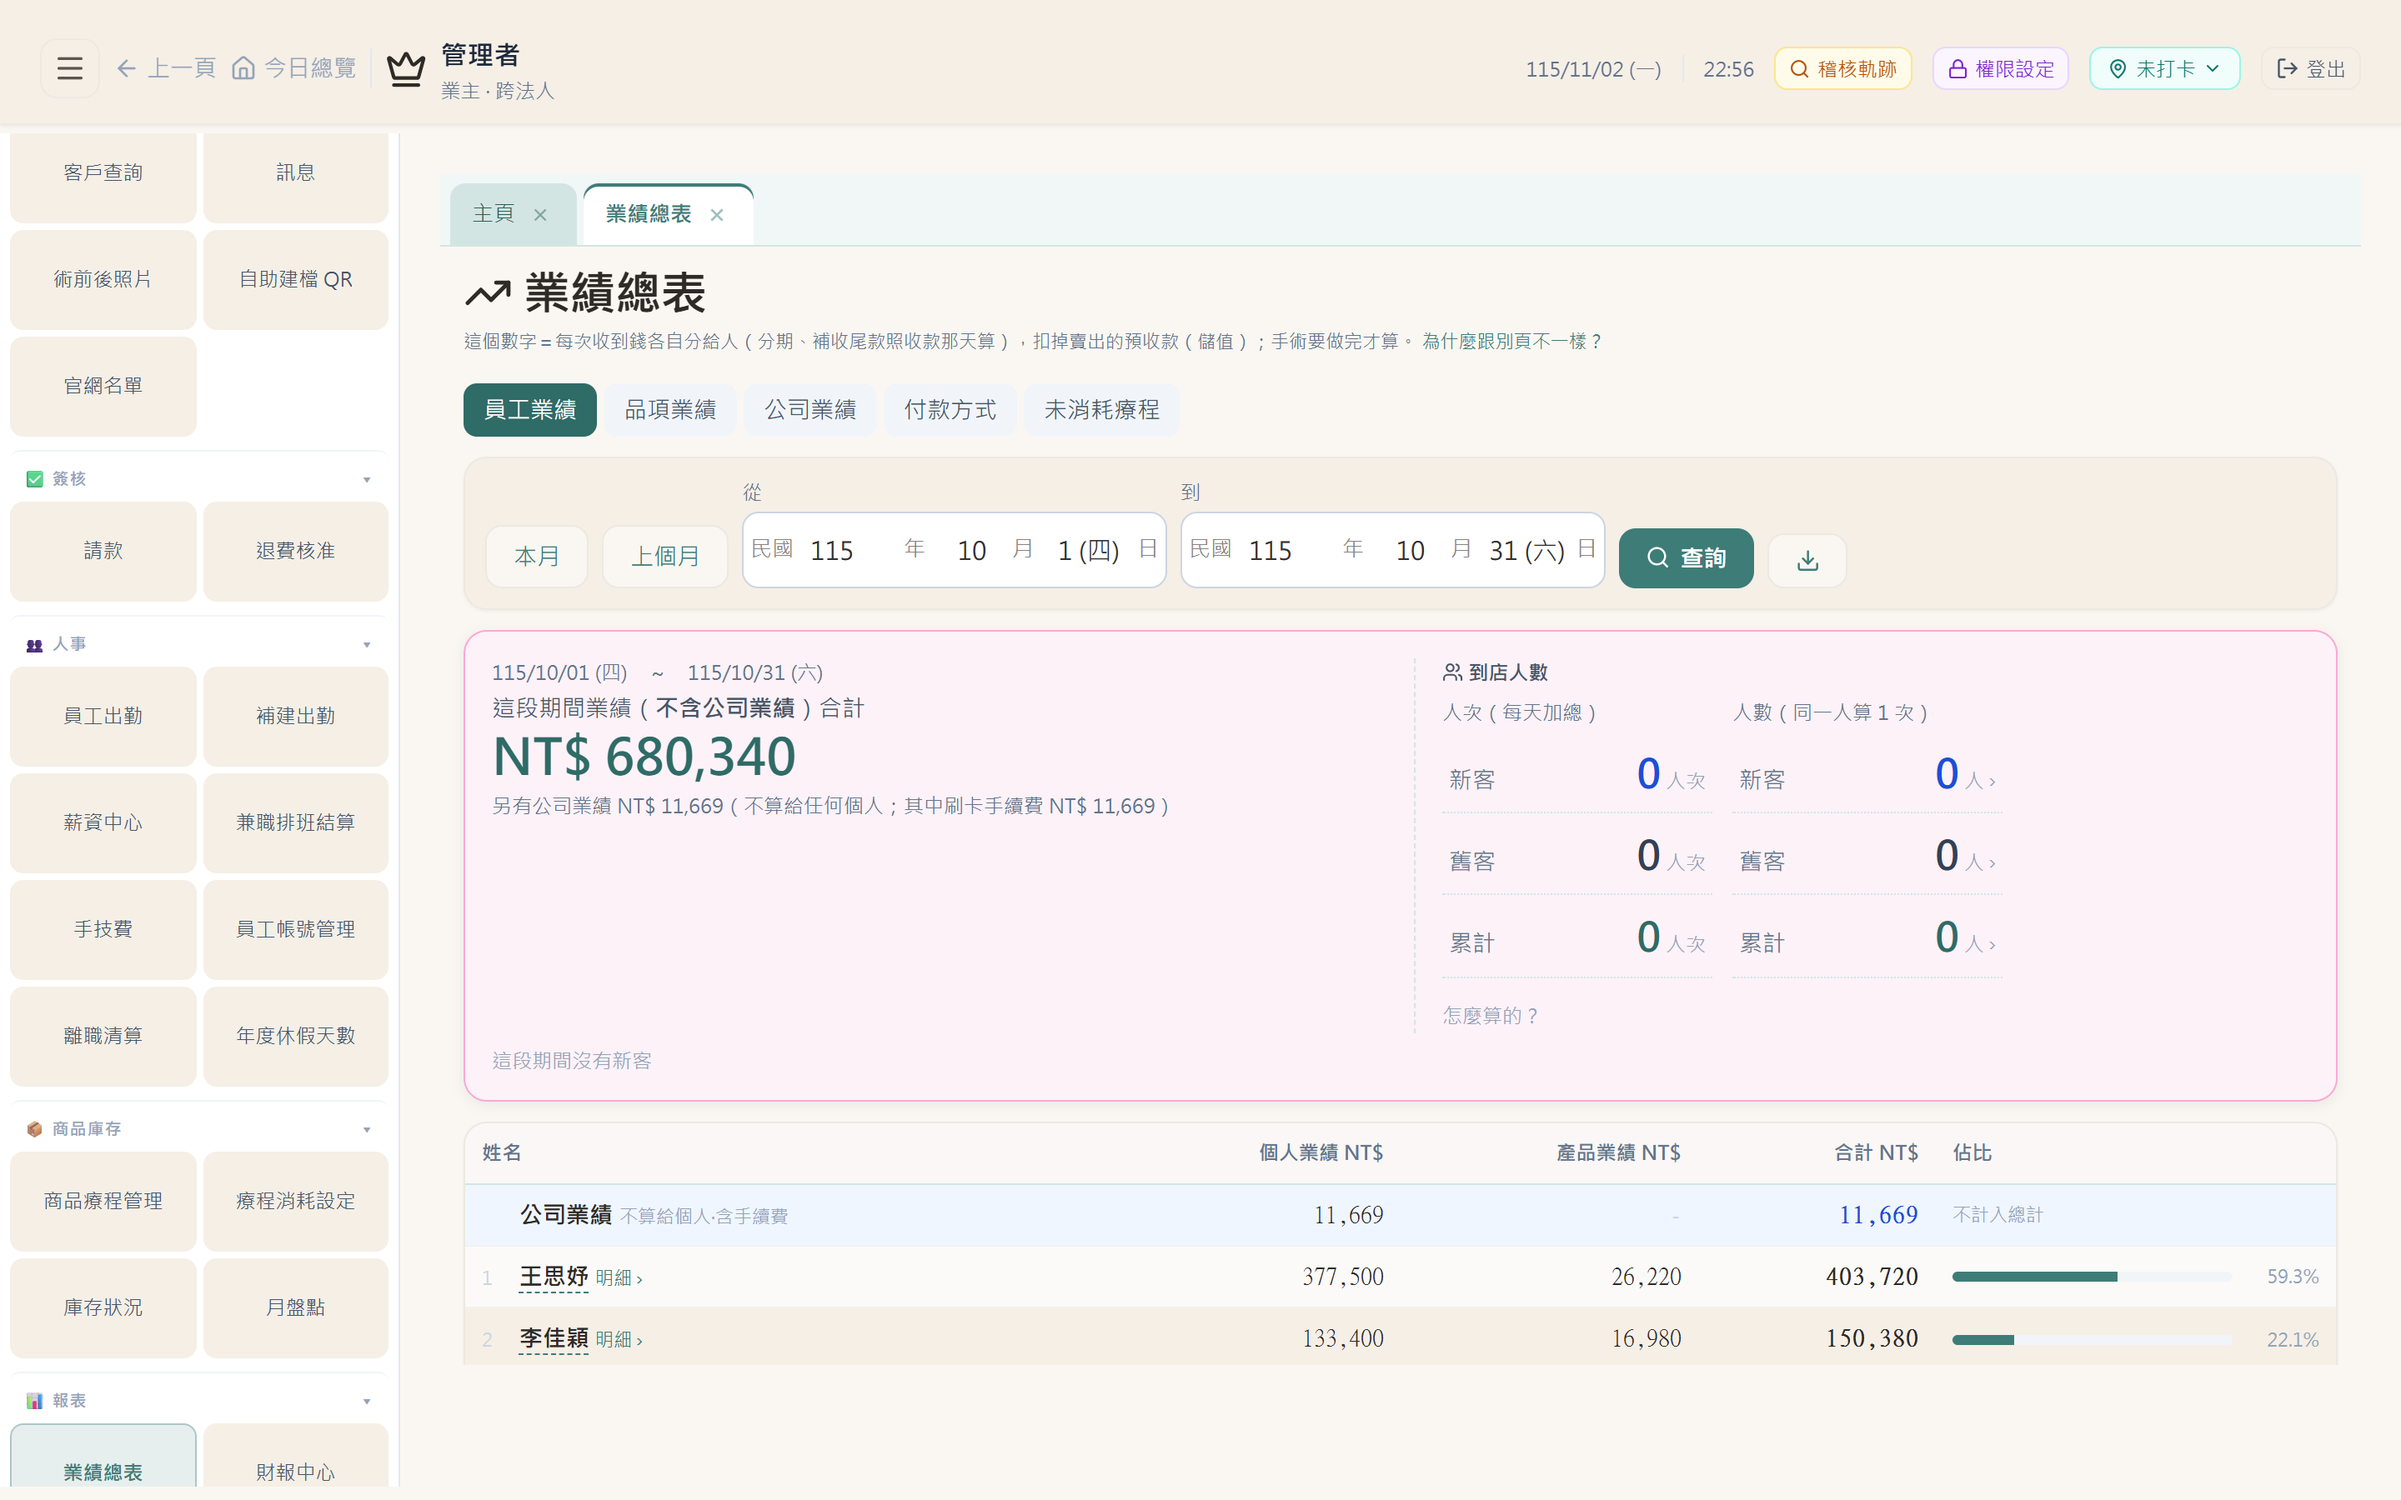
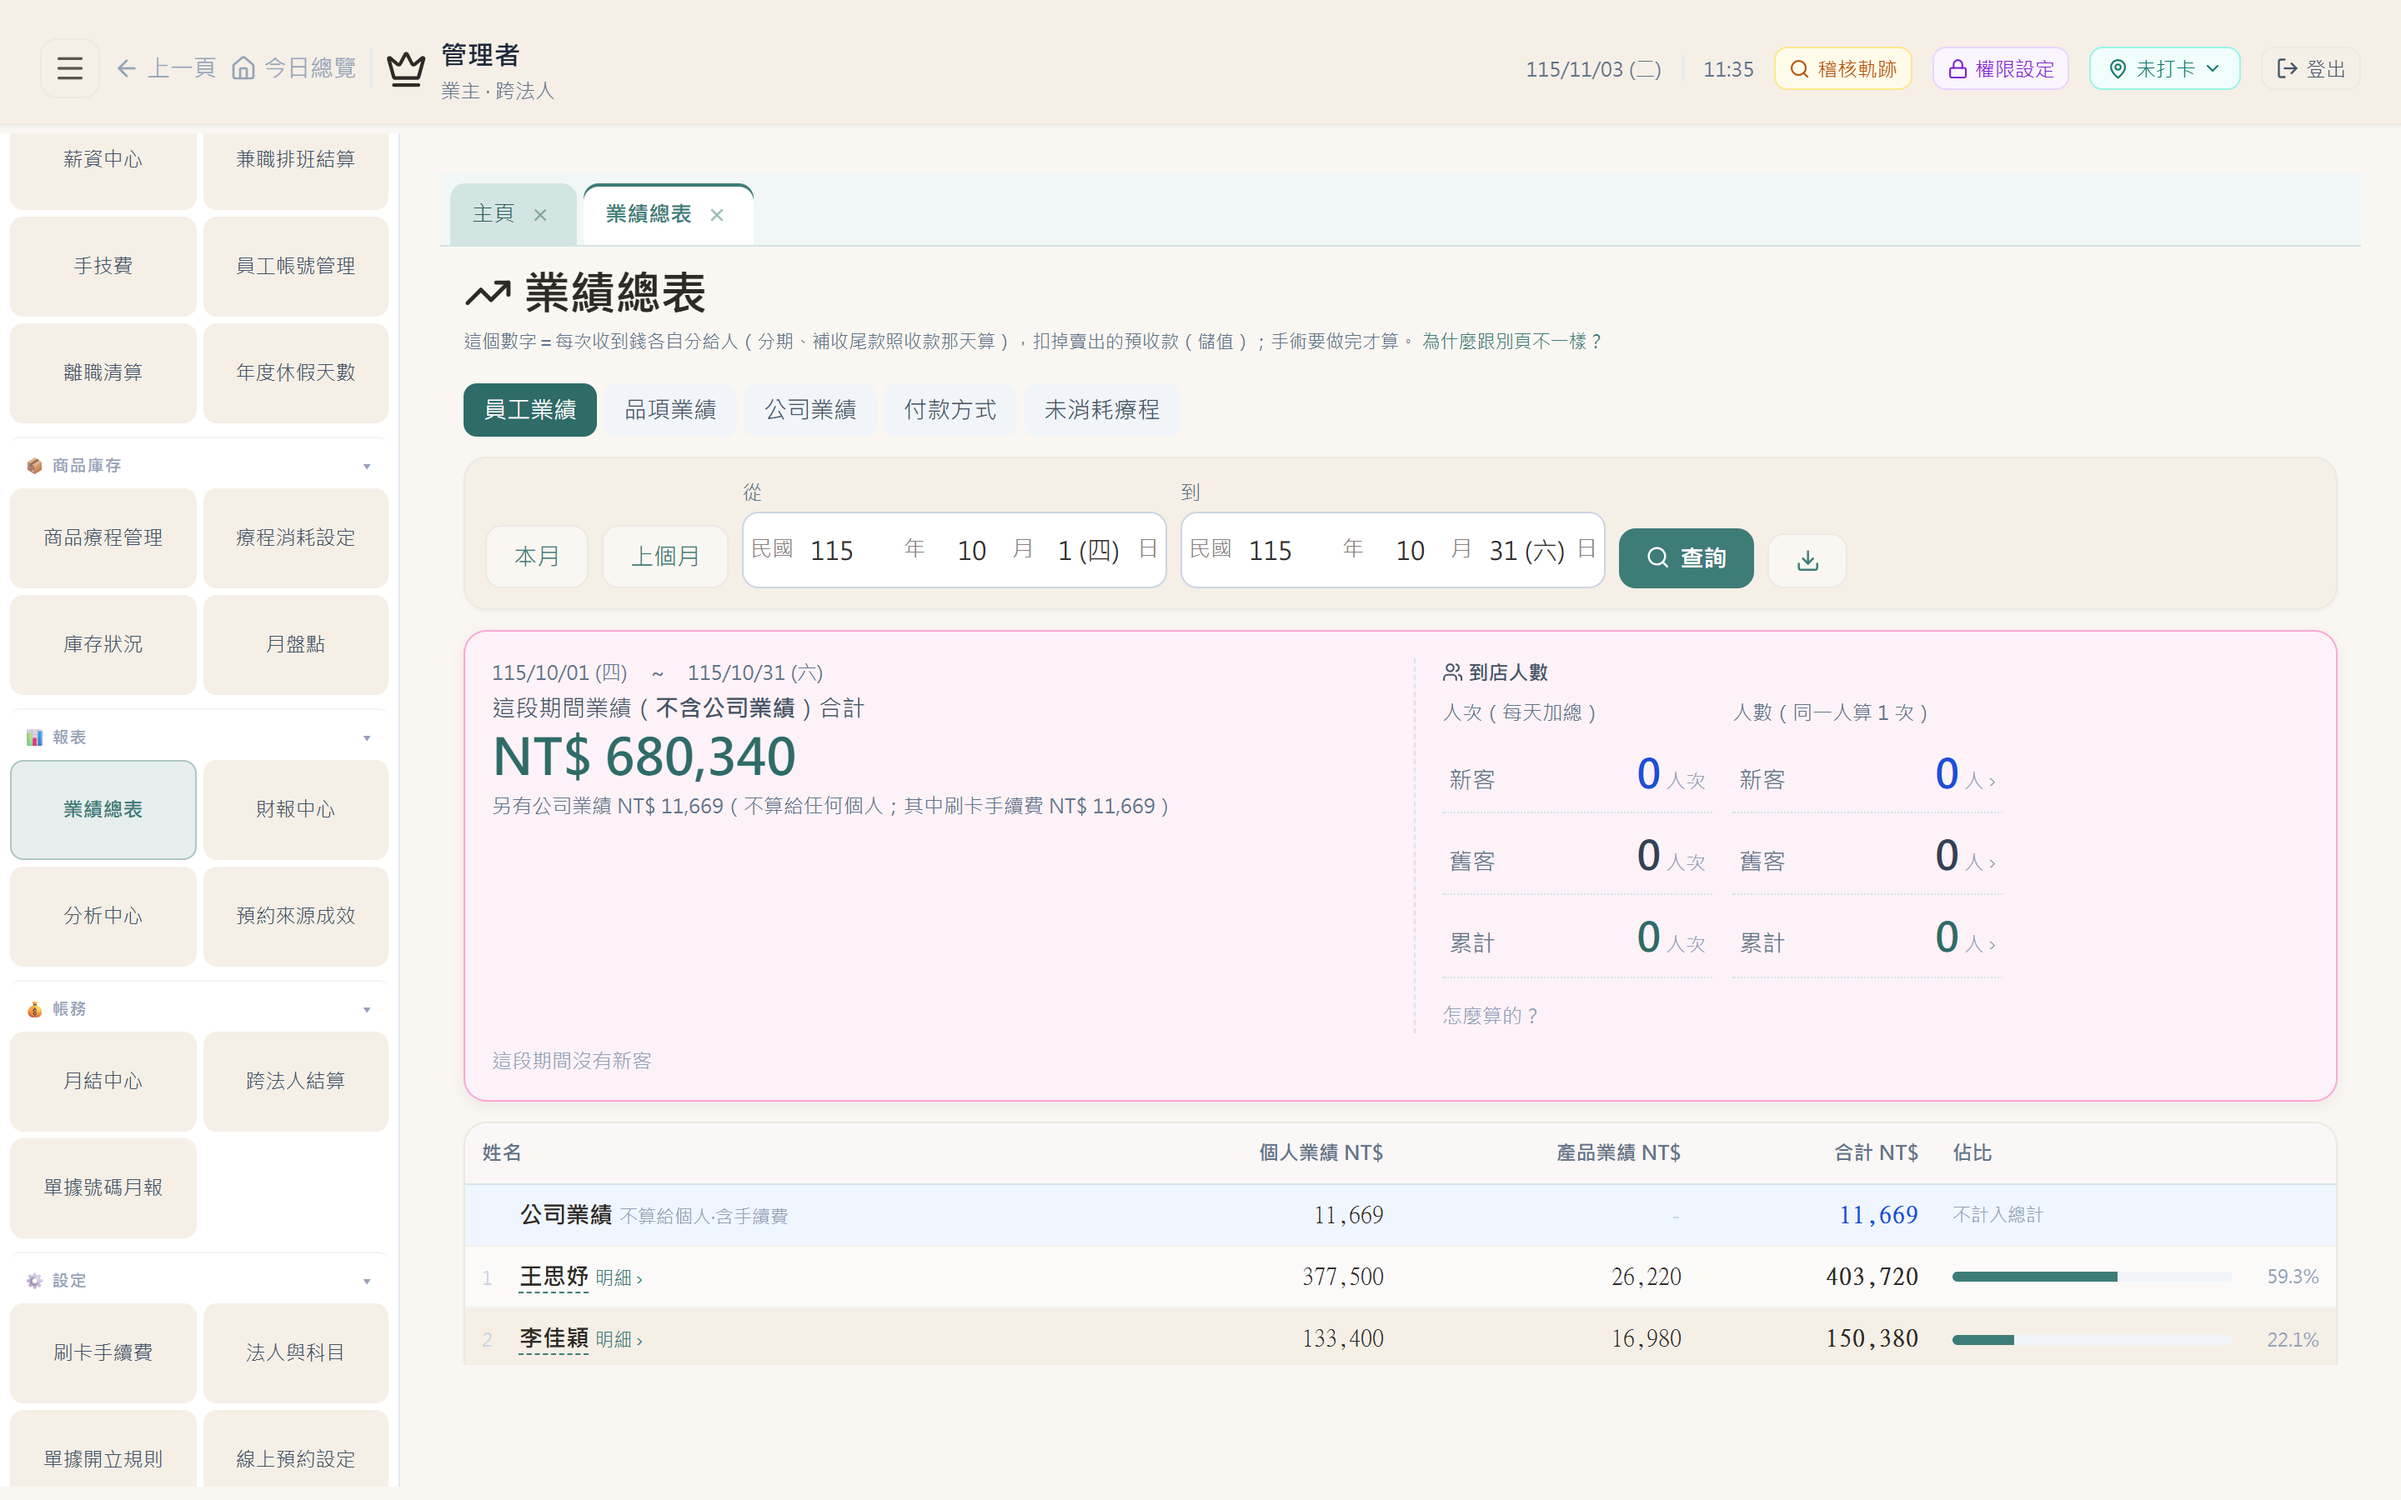
官網加上大量真實畫面：首頁 8 個分頁切換的系統畫面、8 個功能頁與 8 個角色頁各附實際畫面、資安頁附權限與稽核畫面（示範診所假資料）

Changed region(s): [[0.0, 0.0933, 0.1875, 0.9956]]

diff --git a/src/data/details.ts b/src/data/details.ts
@@ -10,11 +10,13 @@ export type Detail = {
   points: { t: string; d: string }[];
   faqs: { q: string; a: string }[];
   article?: string;   // 對應的知識庫文章 slug
+  shots?: { file: string; caption: string }[];   // 實際畫面（src/assets/shots/<file>.png）
 };
 
 export const featureDetails: Detail[] = [
   {
     slug: 'booking', short: '預約與 LINE 提醒', title: '醫美診所預約系統：預約表、線上預約、值班一張表',
+    shots: [{file: "instore", caption: "在店客戶：今天每個時段的客人，誰已報到、誰已離店"}, {file: "booking-m", caption: "客人線上預約：選日期、看當天醫師、選時段"}],
     description: 'GoodLife 預約表一次看當天的人、時段與值班人員，客人可以線上預約，櫃台報到、在店客戶都在同一處。',
     answer: 'GoodLife 的預約表依日、週、月檢視每個時段的客人，上方列出當天值班的醫師、諮詢師、美容師、護理師。客人可以線上預約，預約來源（廣告、介紹、搜尋）也會記下來。',
     points: [
@@ -31,6 +33,7 @@ export const featureDetails: Detail[] = [
   },
   {
     slug: 'checkout', short: '結帳、發票與收據', title: '醫美診所結帳系統：混合付款、電子發票與醫療收據',
+    shots: [{file: "checkout", caption: "結帳中心：待結帳的單、金額、開單人，一鍵進入結帳"}, {file: "items", caption: "商品療程管理：價格、分類、所屬法人、療程消耗一起設定"}],
     description: 'GoodLife 一筆結帳可以混合現金、刷卡、轉帳、儲值金折抵，依品項開電子發票或醫療收據，並自動做成傳票。',
     answer: 'GoodLife 結帳時一筆單可以混合多種付款方式（現金、刷卡、轉帳、分期、儲值金折抵），依品項判斷開電子發票或醫療收據，同時產生借貸平衡的傳票、更新套票與業績。',
     points: [
@@ -48,6 +51,7 @@ export const featureDetails: Detail[] = [
   },
   {
     slug: 'packages', short: '套票與儲值金', title: '醫美套票與儲值金管理：剩餘堂數、殘值轉換、預收款',
+    shots: [{file: "customer360", caption: "客戶資料：累積消費、未消耗療程、儲值金、套票一頁看完"}],
     description: 'GoodLife 記錄每位客人的套票剩餘堂數與儲值金餘額，支援殘值轉換、療程轉讓，預收款在會計上分開記錄。',
     answer: 'GoodLife 把客人買的套票與儲值金當成預收款管理：每次做療程扣一堂並轉成收入，剩餘堂數與殘值隨時查得到；客人想換療程時，可以用殘值轉換算出舊套票還值多少。',
     points: [
@@ -65,6 +69,7 @@ export const featureDetails: Detail[] = [
   },
   {
     slug: 'commission', short: '業績、抽成、醫師費', title: '醫美業績抽成系統：一筆單分給多人，月底自動彙總',
+    shots: [{file: "perf-desktop", caption: "業績總表：上個月每位人員的個人業績、產品業績與佔比"}, {file: "csl-kpi-m", caption: "諮詢師個人 KPI：本月目標、目前達成、離目標還差多少"}],
     description: 'GoodLife 開單時依品項把業績分給諮詢師、醫師、美容師，也能記為公司業績；業績總表依人員、品項、付款方式查詢。',
     answer: 'GoodLife 在開單時就依品項把業績分給一位或多位人員，也可以記為公司業績不算個人。業績總表可以依人員、品項、付款方式、未消耗療程查詢，手技費另外登記，月底一起結算。',
     points: [
@@ -82,6 +87,7 @@ export const featureDetails: Detail[] = [
   },
   {
     slug: 'inventory', short: '庫存、耗材、批號效期', title: '醫美耗材庫存管理：療程配方自動扣庫存、批號效期',
+    shots: [{file: "stock", caption: "庫存狀況：低於安全量、快到期的品項一眼看到"}, {file: "recipe", caption: "療程消耗設定：每個療程用哪些耗材、用多少"}],
     description: 'GoodLife 依療程消耗設定自動扣耗材庫存，記錄批號與效期，搭配月盤點與開封容器管理。',
     answer: 'GoodLife 先為每個療程設定會用到的耗材與用量，做療程時自動扣庫存；耗材依批號與效期管理，先到期的先用，月底盤點時對得出差異。',
     points: [
@@ -99,6 +105,7 @@ export const featureDetails: Detail[] = [
   },
   {
     slug: 'payroll', short: '排班、出勤、薪資', title: '診所排班出勤與薪資：手機打卡、請假、薪資結算',
+    shots: [{file: "schedule", caption: "排班中心：每天各角色的班表與人數"}, {file: "payroll", caption: "薪資作業：每位員工的本薪、加項、扣項、實發"}],
     description: 'GoodLife 的排班中心、手機打卡、請假與補卡審核、薪資中心、兼職結算、離職清算都在同一套系統。',
     answer: 'GoodLife 讓員工用手機打卡、請假，主管線上審核；排班中心排好班表後，出勤、加班、手技費與業績獎金在薪資中心一起結算，兼職與離職也有各自的結算流程。',
     points: [
@@ -115,6 +122,7 @@ export const featureDetails: Detail[] = [
   },
   {
     slug: 'accounting', short: '多法人帳務與 401', title: '一間診所兩個統編怎麼記帳：多法人帳務與 401',
+    shots: [{file: "monthclose", caption: "月結中心：月底要核對的項目，系統自動判斷是否完成"}, {file: "finance", caption: "財報中心：訂單金額、費用、淨利，依法人查詢"}],
     description: 'GoodLife 讓商品預設歸哪個法人、結帳時可調整，傳票、營業稅與 401 依法人分開，跨法人代墊也能結算。',
     answer: 'GoodLife 支援同一間診所有兩個以上統編：每個商品預設歸哪個法人，結帳時可以調整；收入、傳票、營業稅與 401 依法人分開計算，進項憑證也標明歸哪家，跨法人代墊的費用與薪資可以結算。',
     points: [
@@ -132,6 +140,7 @@ export const featureDetails: Detail[] = [
   },
   {
     slug: 'reports', short: '老闆報表', title: '醫美診所老闆報表：營收、業績、預收款一手掌握',
+    shots: [{file: "owner-home", caption: "老闆主頁：本月營收、公司業績、今日營收、本月新客"}, {file: "audit", caption: "稽核軌跡：誰在什麼時間改了什麼，一筆一筆查得到"}],
     description: 'GoodLife 老闆主頁顯示本月營收、公司業績、今日營收與新客，業績總表、財報中心、分析中心、預約來源成效都看得到。',
     answer: 'GoodLife 的老闆主頁一打開就看到本月營收、公司業績、今日營收與本月新客；業績總表依人員與品項拆開，財報中心看收支，預約來源成效看哪個管道帶來客人。',
     points: [
@@ -152,6 +161,7 @@ export const featureDetails: Detail[] = [
 export const roleDetails: Detail[] = [
   {
     slug: 'owner', short: '老闆', title: '醫美診所老闆的手機畫面：營收、業績、簽核',
+    shots: [{file: "owner-home-m", caption: "老闆的手機主頁"}],
     description: '老闆在 GoodLife 看本月營收與業績、簽核請款與退費、設定權限，重要操作都有稽核軌跡。',
     answer: '老闆打開 GoodLife 就看到本月營收、公司業績、今日營收與新客，請款與退費在手機上簽核，每個角色能用哪些功能也由老闆在權限表設定。',
     points: [
@@ -164,6 +174,7 @@ export const roleDetails: Detail[] = [
   },
   {
     slug: 'manager', short: '店長', title: '診所店長的工作畫面：排班、請假審核、現場調度',
+    shots: [{file: "mgr-home", caption: "店長主頁：今日營收、本月業績、諮詢師業績排行"}],
     description: '店長在 GoodLife 排班、審核請假與補卡、處理改價核准，同時也能開單、看預約表。',
     answer: '店長在 GoodLife 負責排班中心的班表、審核請假與補卡、核准超過門檻的改價，也能像諮詢師一樣開單、照顧客人，並查看現場的預約與在店客戶。',
     points: [
@@ -176,6 +187,7 @@ export const roleDetails: Detail[] = [
   },
   {
     slug: 'reception', short: '櫃台', title: '醫美診所櫃台系統：預約、報到、結帳一個畫面',
+    shots: [{file: "rec-home-m", caption: "櫃台的手機主頁：今日預約、到店、結帳捷徑"}],
     description: '櫃台在 GoodLife 處理今日預約、報到、結帳、開執行單、殘值轉換與下班結帳。',
     answer: '櫃台的 GoodLife 首頁就是今天的工作：今日預約數、報到、在店客戶、結帳，以及開執行單、療程轉讓、殘值轉換與下班結帳，都在同一個畫面的捷徑裡。',
     points: [
@@ -188,6 +200,7 @@ export const roleDetails: Detail[] = [
   },
   {
     slug: 'consultant', short: '諮詢師', title: '醫美諮詢師的工作畫面：我的客戶、開單、個人業績',
+    shots: [{file: "csl-clients-m", caption: "我的客戶：主責客人的累積消費與最近服務"}, {file: "csl-kpi-m", caption: "個人 KPI：本月目標與達成"}],
     description: '諮詢師在 GoodLife 看自己主責的客人、未消耗療程、建議聯絡客戶，開銷售單並隨時看到自己的業績。',
     answer: '諮詢師在 GoodLife 有「我的客戶」清單，看得到每位客人的累積消費、剩餘套票與最近服務；開銷售單時業績就分好，個人 KPI 隨時看得到這個月的成績。',
     points: [
@@ -200,6 +213,7 @@ export const roleDetails: Detail[] = [
   },
   {
     slug: 'doctor', short: '醫師', title: '醫美醫師的工作畫面：療程清單、同意書、醫師費',
+    shots: [{file: "doc-home-m", caption: "醫師的手機畫面：今天在店的客人與病歷、診斷、照片入口"}],
     description: '醫師在 GoodLife 看當天的療程與客人資料、術前後照片與同意書，並查看自己的醫師費。',
     answer: '醫師在 GoodLife 看得到當天排給自己的療程與客人、術前後照片與簽署的同意書，自己的醫師費也在系統裡計算。GoodLife 不處理健保申報。',
     points: [
@@ -211,6 +225,7 @@ export const roleDetails: Detail[] = [
   },
   {
     slug: 'nurse', short: '護理師', title: '醫美護理師的工作畫面：療程準備、耗材、術後追蹤',
+    shots: [{file: "nur-home-m", caption: "護理師的手機主頁：待辦、在店客戶、敷麻倒數"}],
     description: '護理師在 GoodLife 準備療程、記錄耗材使用、拍術前後照片。',
     answer: '護理師在 GoodLife 看當天的療程安排，療程用掉的耗材依配方扣庫存並記錄批號，術前後照片也在系統裡拍攝保存。',
     points: [
@@ -222,6 +237,7 @@ export const roleDetails: Detail[] = [
   },
   {
     slug: 'beautician', short: '美容師', title: '美容師的工作畫面：今日客人、手技費、耗材庫存',
+    shots: [{file: "bcn-stock-m", caption: "耗材庫存：缺料自動提醒，進貨與盤點在手機完成"}],
     description: '美容師在 GoodLife 看今天的客人、開執行單、登記手技費、查耗材庫存，並看自己的業績。',
     answer: '美容師在 GoodLife 看今天排了哪些客人，做完療程開執行單扣堂數、登記手技費，保養品銷售、耗材庫存與月盤點也在手機上完成，個人 KPI 看得到自己的業績。',
     points: [
@@ -234,6 +250,7 @@ export const roleDetails: Detail[] = [
   },
   {
     slug: 'accountant', short: '會計', title: '醫美診所會計的工作畫面：傳票、401、薪資、月結',
+    shots: [{file: "monthclose", caption: "月結中心"}, {file: "payroll", caption: "薪資作業"}],
     description: '會計在 GoodLife 處理請款、薪資、傳票、進項憑證、401 試算、月結與跨法人結算。',
     answer: '會計在 GoodLife 不用再對三份 Excel：結帳時傳票已經做好，進項憑證登記時就選好歸哪個法人，401 依法人試算，薪資、獎金、請款與月結也在同一套系統。',
     points: [
